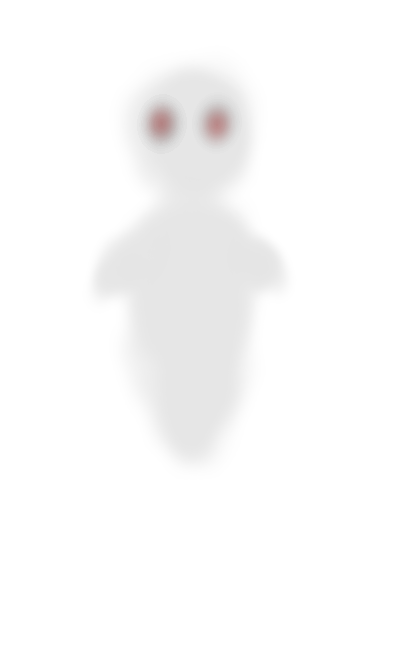
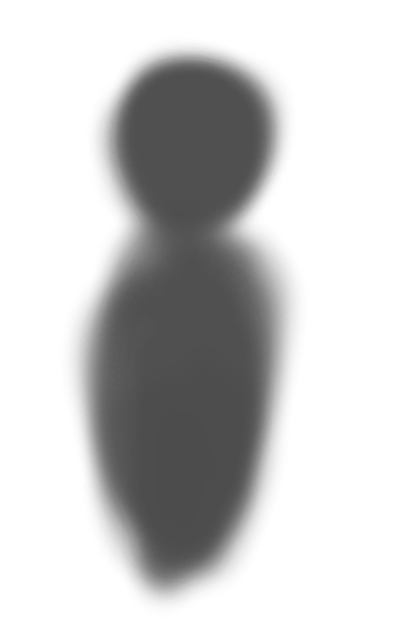
- Updated Ghost.png - Made orb visibility manifestation use emission - Added eyes visibility manifestation

diff --git a/GhostHuntSim/Controllers/GameViewController.swift b/GhostHuntSim/Controllers/GameViewController.swift
@@ -88,11 +88,7 @@ class GameViewController: UIViewController, SCNSceneRendererDelegate {
     }
 
     override func supportedInterfaceOrientations() -> UIInterfaceOrientationMask {
-        if UIDevice.currentDevice().userInterfaceIdiom == .Phone {
-            return .AllButUpsideDown
-        } else {
-            return .All
-        }
+        return .Portrait
     }
 
     override func didReceiveMemoryWarning() {
@@ -127,30 +123,12 @@ class GameViewController: UIViewController, SCNSceneRendererDelegate {
     private func setUpSceneView() ->
             (sceneView: SCNView, cameraNode: SCNNode, ghostNode: SCNNode, ghostPivotNode: SCNNode, soundNode: SCNNode,
              soundPivotNode: SCNNode) {
-        // create a new scene
         let scene = SCNScene()
 
-        // create and add a camera to the scene
         let cameraNode = SCNNode()
         cameraNode.camera = SCNCamera()
         scene.rootNode.addChildNode(cameraNode)
-
-        // place the camera
         cameraNode.position = SCNVector3(x: 0, y: 0, z: 0)
-
-        // create and add a light to the scene
-        let lightNode = SCNNode()
-        lightNode.light = SCNLight()
-        lightNode.light!.type = SCNLightTypeOmni
-        lightNode.position = SCNVector3(x: 0, y: 10, z: 10)
-        scene.rootNode.addChildNode(lightNode)
-
-        // create and add an ambient light to the scene
-        let ambientLightNode = SCNNode()
-        ambientLightNode.light = SCNLight()
-        ambientLightNode.light!.type = SCNLightTypeAmbient
-        ambientLightNode.light!.color = UIColor.darkGrayColor()
-        scene.rootNode.addChildNode(ambientLightNode)
 
         let ghostNode = SCNNode()
         ghostNode.geometry = SCNSphere(radius: 0)
@@ -168,21 +146,14 @@ class GameViewController: UIViewController, SCNSceneRendererDelegate {
         soundNode.position = SCNVector3Make(0, 50, 50)
         scene.rootNode.addChildNode(soundPivotNode)
 
-        // retrieve the SCNView
         let scnView = SCNView(frame: view.bounds)
-        view.addSubview(scnView)
-
-        // set the scene to the view
         scnView.scene = scene
-
-        // allows the user to manipulate the camera
-        scnView.allowsCameraControl = false
-
-        // show statistics such as fps and timing information
-        scnView.showsStatistics = false
-
         scnView.backgroundColor = UIColor.clearColor()
         scnView.playing = true
+        view.addSubview(scnView)
+
+        scnView.allowsCameraControl = false
+        scnView.showsStatistics = false
 
         return (scnView, cameraNode, ghostNode, ghostPivotNode, soundNode, soundPivotNode)
     }

diff --git a/GhostHuntSim/Controllers/GhostController.swift b/GhostHuntSim/Controllers/GhostController.swift
@@ -57,18 +57,15 @@ public class GhostController: MessengerSubscriber {
                 chancePerSixty: 1)
 
         let orbVisibilityManifestation = OrbVisibilityManifestation(minimumActivityLevel: 1, ghostNode: ghostNode,
-                visibility: 0.1, messenger: messenger)
-        let mistVisibilityManifestation = MistVisibilityManifestation(minimumActivityLevel: 1, ghostNode: ghostNode,
-                visibility: 0.25, messenger: messenger)
-        let shadowVisibilityManifestation = ShadowVisibilityManifestation(minimumActivityLevel: 1, ghostNode: ghostNode,
-                visibility: 0.25, messenger: messenger)
-        let figureVisibilityManifestation = FigureVisibilityManifestation(minimumActivityLevel: 1, ghostNode: ghostNode,
                 visibility: 0.01, messenger: messenger)
+        let shadowVisibilityManifestation = FigureVisibilityManifestation(minimumActivityLevel: 1, ghostNode: ghostNode,
+                visibility: 0.025, messenger: messenger, filename: "Ghost.png", width: 12, height: 24)
+        let eyesVisibilityManifestation = FigureVisibilityManifestation(minimumActivityLevel: 1, ghostNode: ghostNode,
+                visibility: 0.1, messenger: messenger, filename: "Eyes.png", width: 12, height: 12)
         visibilityManifestations = ManifestationSet(
                 manifestations: [orbVisibilityManifestation,
-                                 mistVisibilityManifestation,
                                  shadowVisibilityManifestation,
-                                 figureVisibilityManifestation],
+                                 eyesVisibilityManifestation],
                 chancePerSixty: 1)
     }
 

diff --git a/GhostHuntSim/Manifestations/FigureVisibilityManifestation.swift b/GhostHuntSim/Manifestations/FigureVisibilityManifestation.swift
@@ -8,10 +8,25 @@ import SceneKit
 
 public class FigureVisibilityManifestation: VisibilityManifestationBase {
 
+    private let filename: String
+    private let width: CGFloat
+    private let height: CGFloat
+
+    init(minimumActivityLevel: Double, ghostNode: SCNNode, visibility: Double, messenger: Messenger,
+            filename: String, width: CGFloat, height: CGFloat) {
+        self.filename = filename
+        self.width = width
+        self.height = height
+
+        super.init(minimumActivityLevel: minimumActivityLevel, ghostNode: ghostNode, visibility: visibility,
+                messenger: messenger)
+    }
+
     override func doSetGeometry() {
-        let box = SCNBox(width: 12, height: 24, length: 1, chamferRadius: 0)
+        let box = SCNBox(width: width, height: height, length: 1, chamferRadius: 0)
+
         let material = SCNMaterial()
-        material.diffuse.contents = "Ghost.png"
+        material.diffuse.contents = filename
         box.firstMaterial = material
 
         ghostNode.geometry = box

diff --git a/GhostHuntSim/Manifestations/OrbVisibilityManifestation.swift b/GhostHuntSim/Manifestations/OrbVisibilityManifestation.swift
@@ -9,6 +9,11 @@ import SceneKit
 public class OrbVisibilityManifestation: VisibilityManifestationBase {
 
     override func doSetGeometry() {
-        ghostNode.geometry = SCNSphere(radius: 2)
+        let sphere = SCNSphere(radius: 1)
+
+        sphere.firstMaterial = SCNMaterial()
+        sphere.firstMaterial!.emission.contents = UIColor.darkGrayColor()
+
+        ghostNode.geometry = sphere
     }
 }
